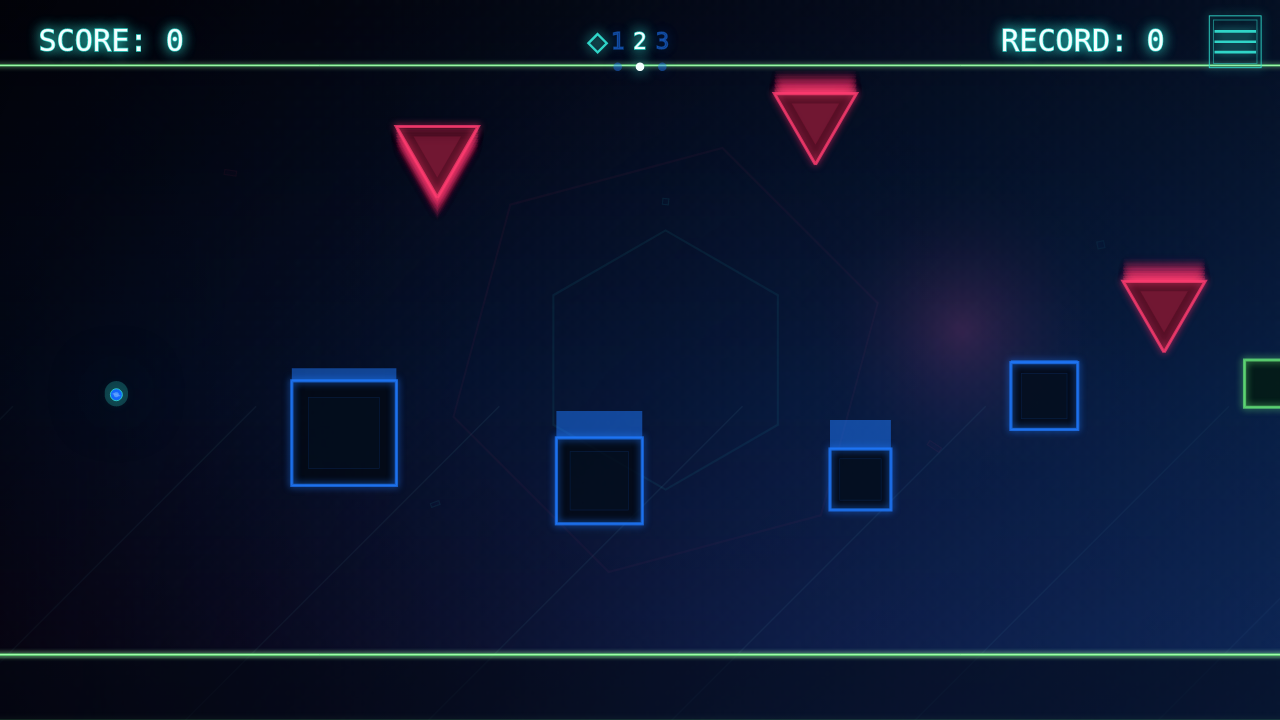
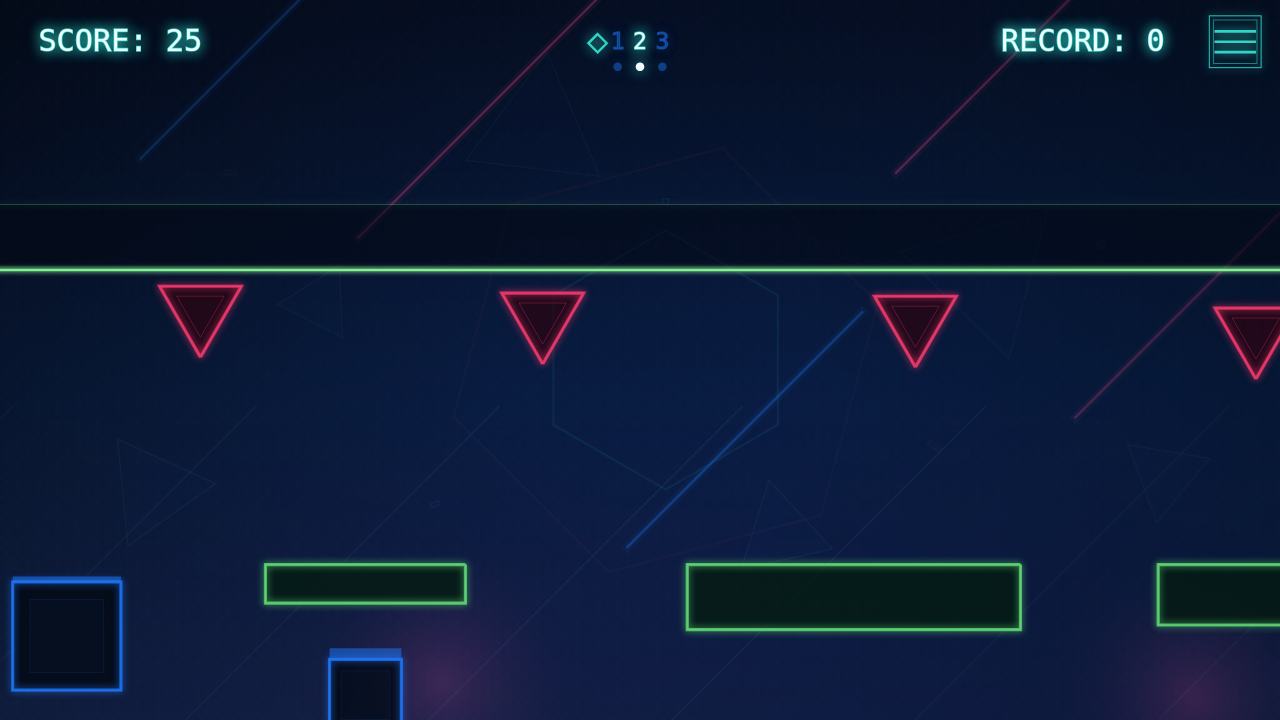
TASK-039: Stabilize bad background palette

diff --git a/render/effects.js b/render/effects.js
@@ -202,7 +202,6 @@ class BackgroundRenderer
     shouldFreezeBadVersionBackgroundMotion()
     {
         return STYLE.visualStability.freezeBadVersionBackground
-            && !STYLE.visualStability.useDistantBackgroundMotion
     }
     drawDiagonalFlashes(width, height, geometry, time)
     {

diff --git a/progress.md b/progress.md
@@ -82,3 +82,4 @@ TASK-041: Added faint varied non-red decorative triangle silhouettes to the bad-
 TASK-042: Added distant slow-motion bad-version background settings with tiny parallax/time multipliers; verified 1.2%/0.8% camera parallax, classic startup, no console errors, valid JSON, and saved screenshots/TASK-042.png. Gotcha: stable palette remains enabled while geometry is allowed to drift slowly.
 TASK-043: Replaced the bad-version solid red mini-triangle interior with a clean inset stroke, verified bad/classic triangle rendering and hazard restart behavior, no console errors, valid JSON, and saved screenshots/TASK-043.png. Gotcha: prior verification artifacts were already dirty and left untouched.
 TASK-044: Added a hidden-by-default RAF FPS counter toggled from the ESC pause overlay, verified live updates/readability/no console errors, and saved screenshots/TASK-044.png. Gotcha: ESC now opens/resumes the existing pause overlay during active gameplay instead of toggling the old screen debug flag.
+TASK-039: Made freezeBadVersionBackground override distant background motion, verified early-vs-after-2k isolated background screenshots have zero RGB delta, confirmed classic starts/no console errors, and refreshed screenshots/TASK-039.png. Gotcha: this intentionally prioritizes TASK-039 stability over prior distant background drift.
